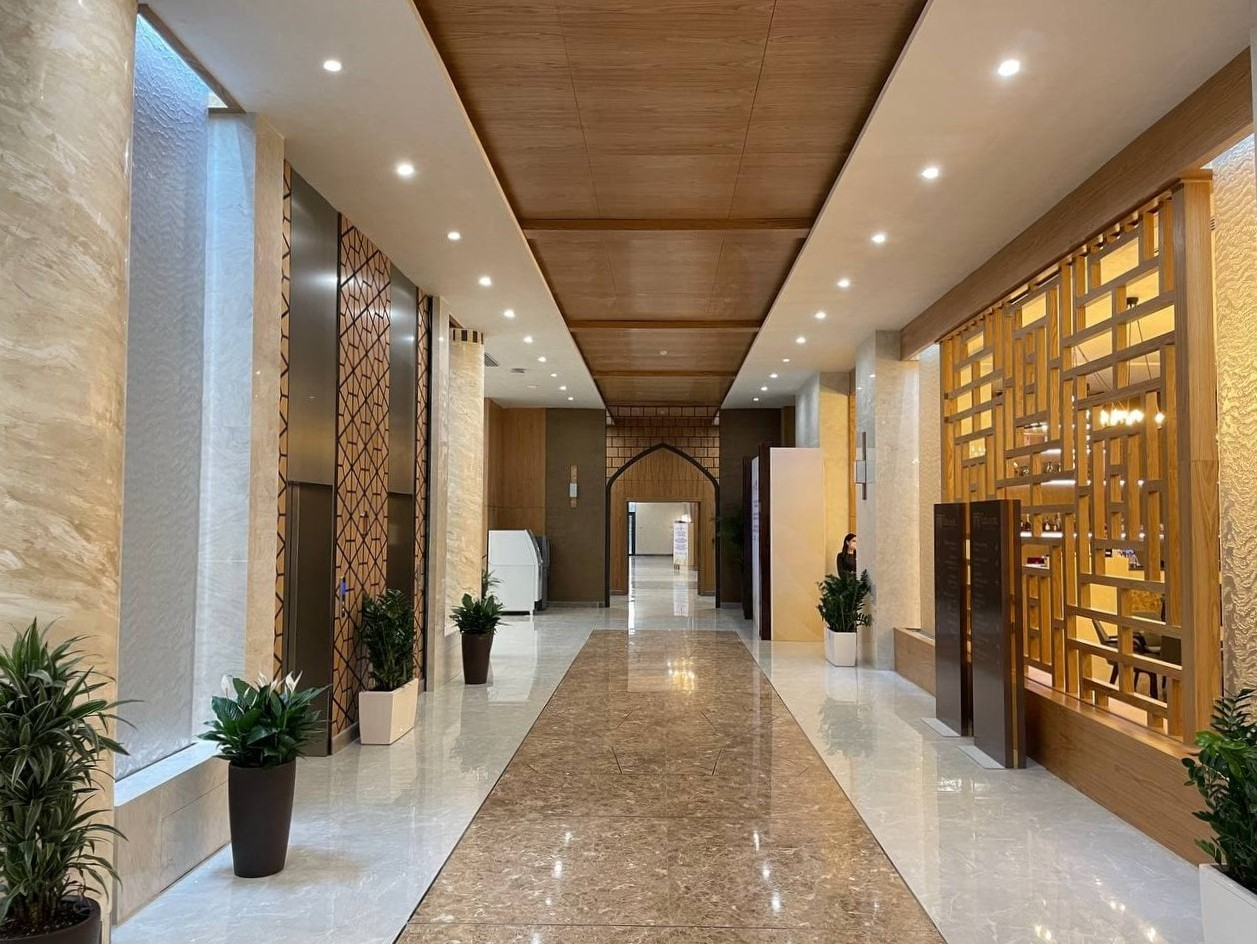
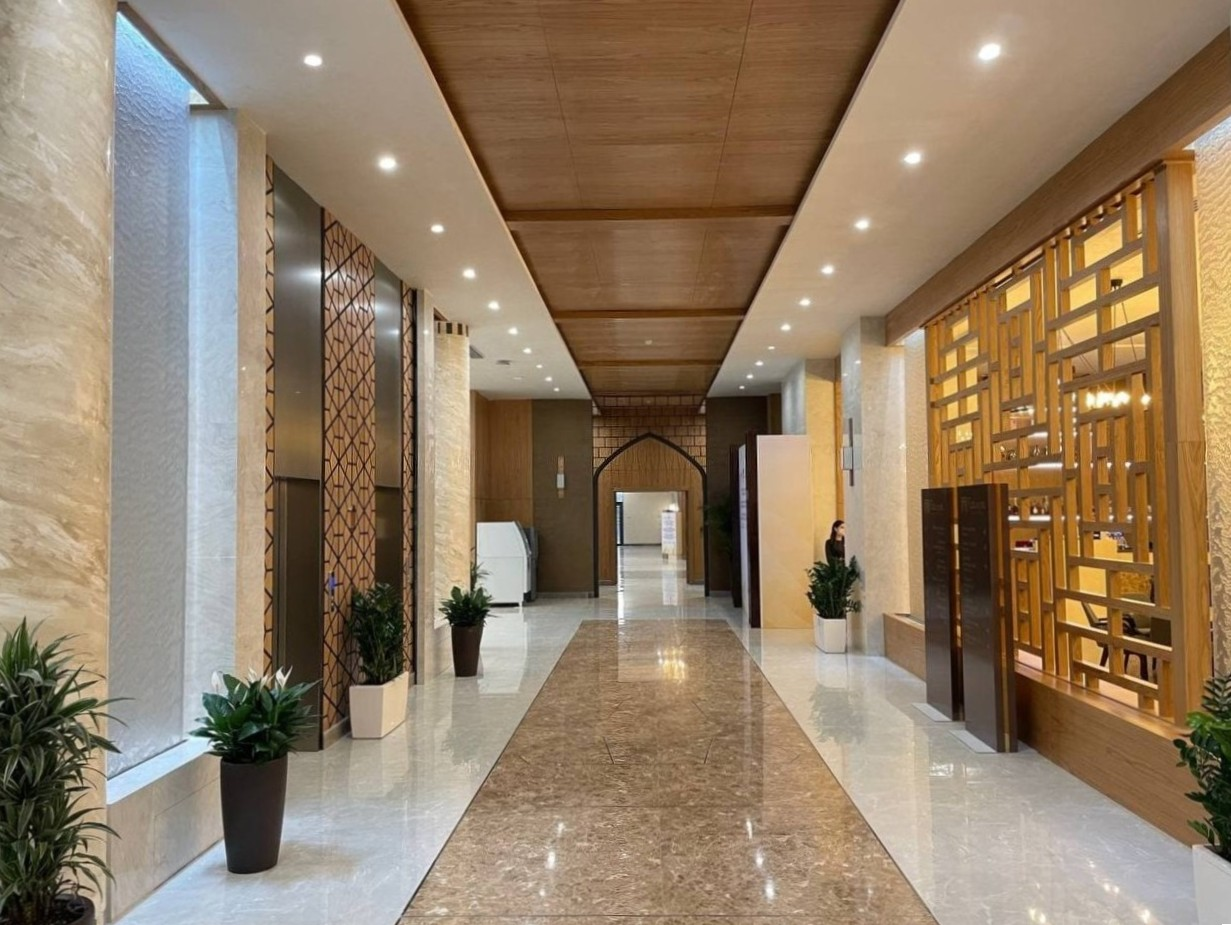
dynamic gallery sectin has been updated succesfully

diff --git a/src/styles/collections.css b/src/styles/collections.css
@@ -141,48 +141,78 @@
 }
 
 /* ========================================
-   MASONRY IMAGE GALLERY
+   EDITORIAL IMAGE GRID
+   Mixed gallery:
+   landscape = 6 cols, portrait = 3 cols, square = 3 cols
+   (6+6, 6+3+3, 3+3+3+3 all fill a row perfectly)
 ======================================== */
 
 .project-gallery {
-  columns: 2;
-  column-gap: 1.35vw;
+  display: grid;
+  grid-template-columns: repeat(12, 1fr);
+  grid-auto-rows: 30vw;
+  grid-auto-flow: dense; /* fills holes left by mixed orientations */
+  gap: 1.35vw;
   width: 100%;
 }
 
 .project-gallery__item {
   position: relative;
-  display: inline-block;
-  width: 100%;
-  margin: 0 0 1.35vw;
-  break-inside: avoid;
+  grid-column: span 3; /* default before JS tags the image */
   overflow: hidden;
-  background: transparent;
-  vertical-align: top;
+  background: rgba(12, 31, 26, 0.06);
+}
+
+.project-gallery__item.is-landscape {
+  grid-column: span 6;
+}
+
+.project-gallery__item.is-portrait {
+  grid-column: span 3;
+  grid-row: span 1;
+}
+
+.project-gallery__item.is-square {
+  grid-column: span 3;
+}
+
+/* Hero: the first landscape image goes full width (mixed galleries) */
+.project-gallery__item.is-landscape:first-child {
+  grid-column: 1 / -1;
+  grid-row: span 1;
 }
 
 .project-gallery__item img {
-  display: block;
+  position: absolute;
+  inset: 0;
   width: 100%;
-  height: auto;
-  max-width: 100%;
-  object-fit: contain;
+  height: 100%;
+  max-width: none;
+  object-fit: cover;
   object-position: center;
   transition: transform 0.8s cubic-bezier(0.23, 1, 0.32, 1);
 }
 
-/* Orientation classes */
-
-.project-gallery__item.is-landscape,
-.project-gallery__item.is-portrait,
-.project-gallery__item.is-square {
-  width: 100%;
-}
-
-/* Hover effect */
-
 .project-gallery__item:hover img {
   transform: scale(1.025);
+}
+
+/* ----------------------------------------
+   ALL-LANDSCAPE GALLERY: 3 per row
+   Applies when the gallery has no portrait or square images.
+   No hero image, rows are shorter to suit wide photos.
+---------------------------------------- */
+
+.project-gallery:not(:has(.is-portrait, .is-square)) {
+  grid-auto-rows: 22vw;
+}
+
+.project-gallery:not(:has(.is-portrait, .is-square)) .project-gallery__item,
+.project-gallery:not(:has(.is-portrait, .is-square))
+  .project-gallery__item.is-landscape,
+.project-gallery:not(:has(.is-portrait, .is-square))
+  .project-gallery__item.is-landscape:first-child {
+  grid-column: span 4;
 }
 
 /* Image numbering */
@@ -281,11 +311,12 @@
   }
 
   .project-gallery {
-    column-gap: 1.5vw;
+    gap: 1.5vw;
+    grid-auto-rows: 34vw;
   }
 
-  .project-gallery__item {
-    margin-bottom: 1.5vw;
+  .project-gallery:not(:has(.is-portrait, .is-square)) {
+    grid-auto-rows: 24vw;
   }
 
   .project-info__description h3 {
@@ -376,21 +407,36 @@
     line-height: 1.5;
   }
 
-  /* MOBILE MASONRY GALLERY */
+  /* MOBILE GALLERY */
 
   .project-gallery {
-    columns: 2;
-    column-gap: 10px;
+    grid-template-columns: repeat(2, 1fr);
+    grid-auto-rows: 58vw;
+    gap: 10px;
   }
 
-  .project-gallery__item {
-    margin-bottom: 10px;
+  .project-gallery__item,
+  .project-gallery__item.is-portrait,
+  .project-gallery__item.is-square {
+    grid-column: span 1;
   }
 
-  .project-gallery__item img {
-    width: 100%;
-    height: auto;
-    object-fit: contain;
+  .project-gallery__item.is-landscape,
+  .project-gallery__item.is-landscape:first-child {
+    grid-column: 1 / -1;
+  }
+
+  /* All-landscape on mobile: one wide image per row */
+  .project-gallery:not(:has(.is-portrait, .is-square)) {
+    grid-auto-rows: 62vw;
+  }
+
+  .project-gallery:not(:has(.is-portrait, .is-square)) .project-gallery__item,
+  .project-gallery:not(:has(.is-portrait, .is-square))
+    .project-gallery__item.is-landscape,
+  .project-gallery:not(:has(.is-portrait, .is-square))
+    .project-gallery__item.is-landscape:first-child {
+    grid-column: 1 / -1;
   }
 
   .image-index {
